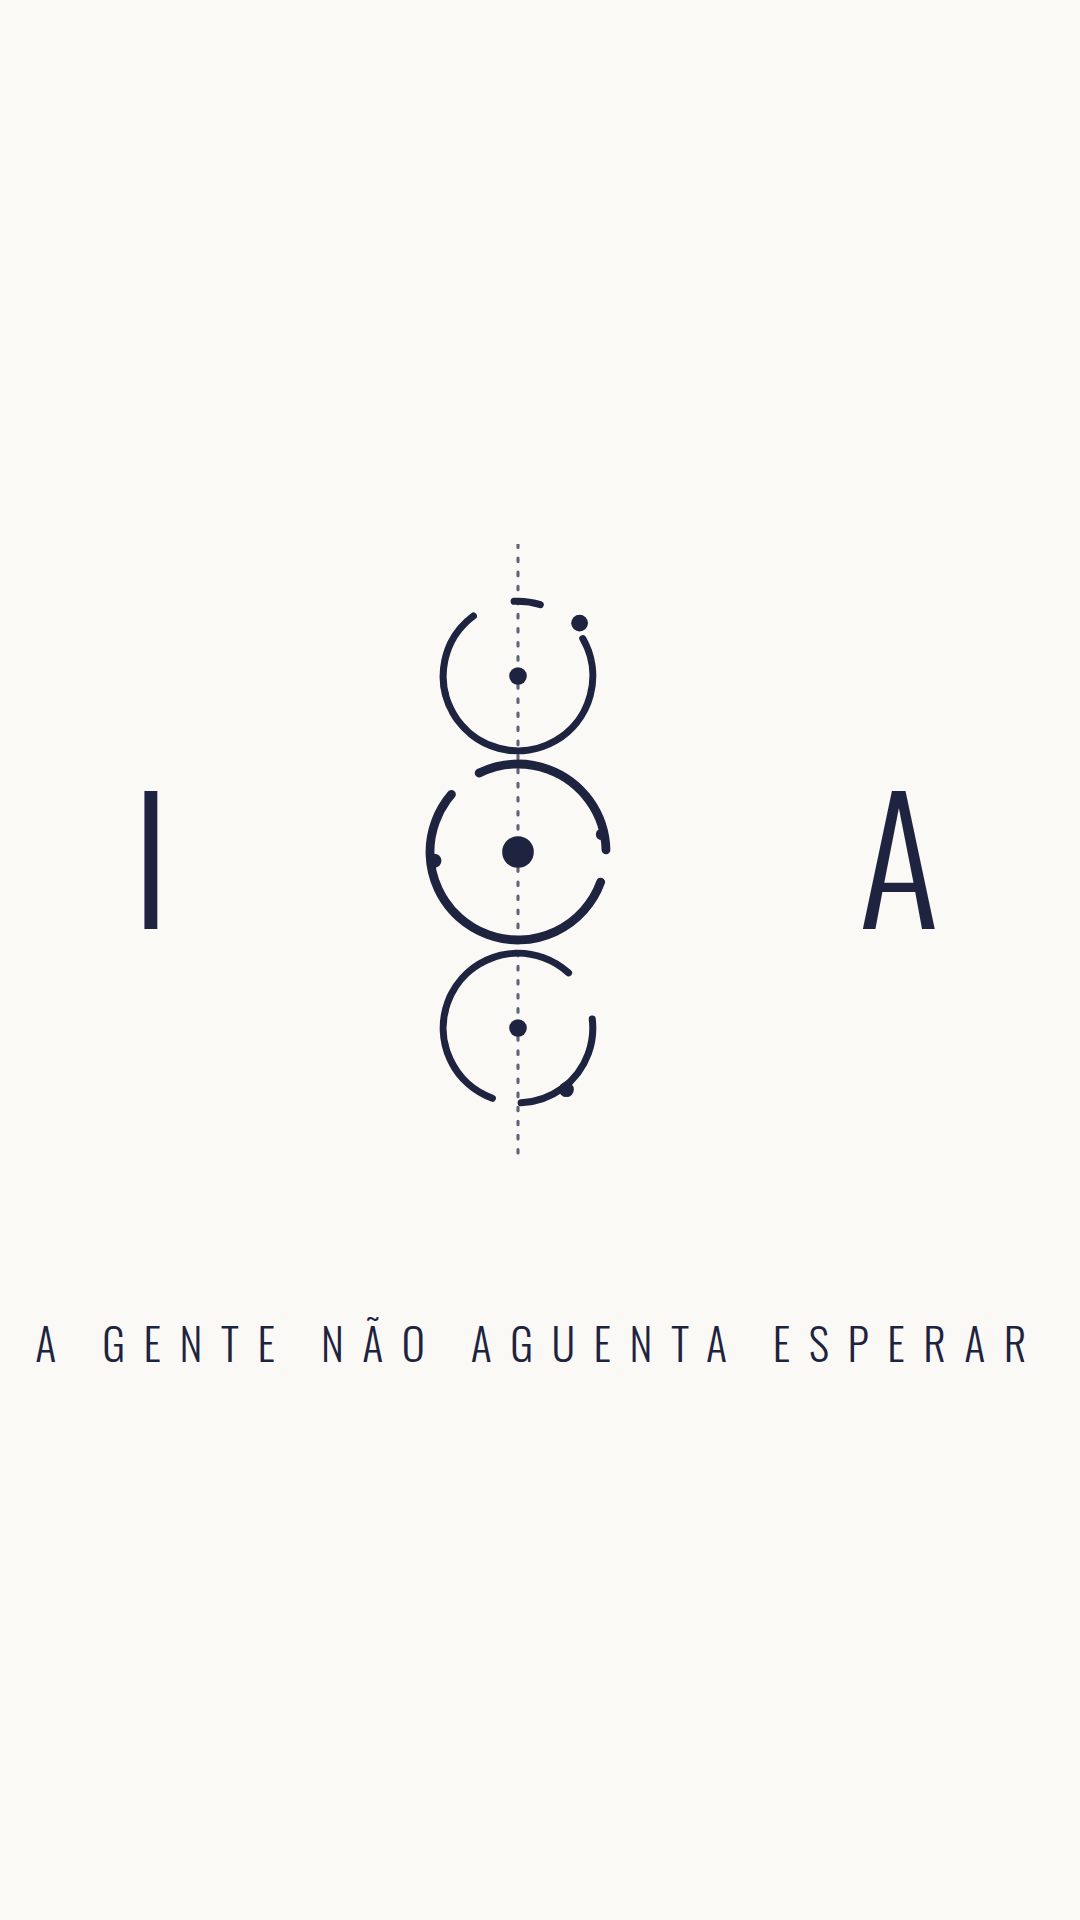
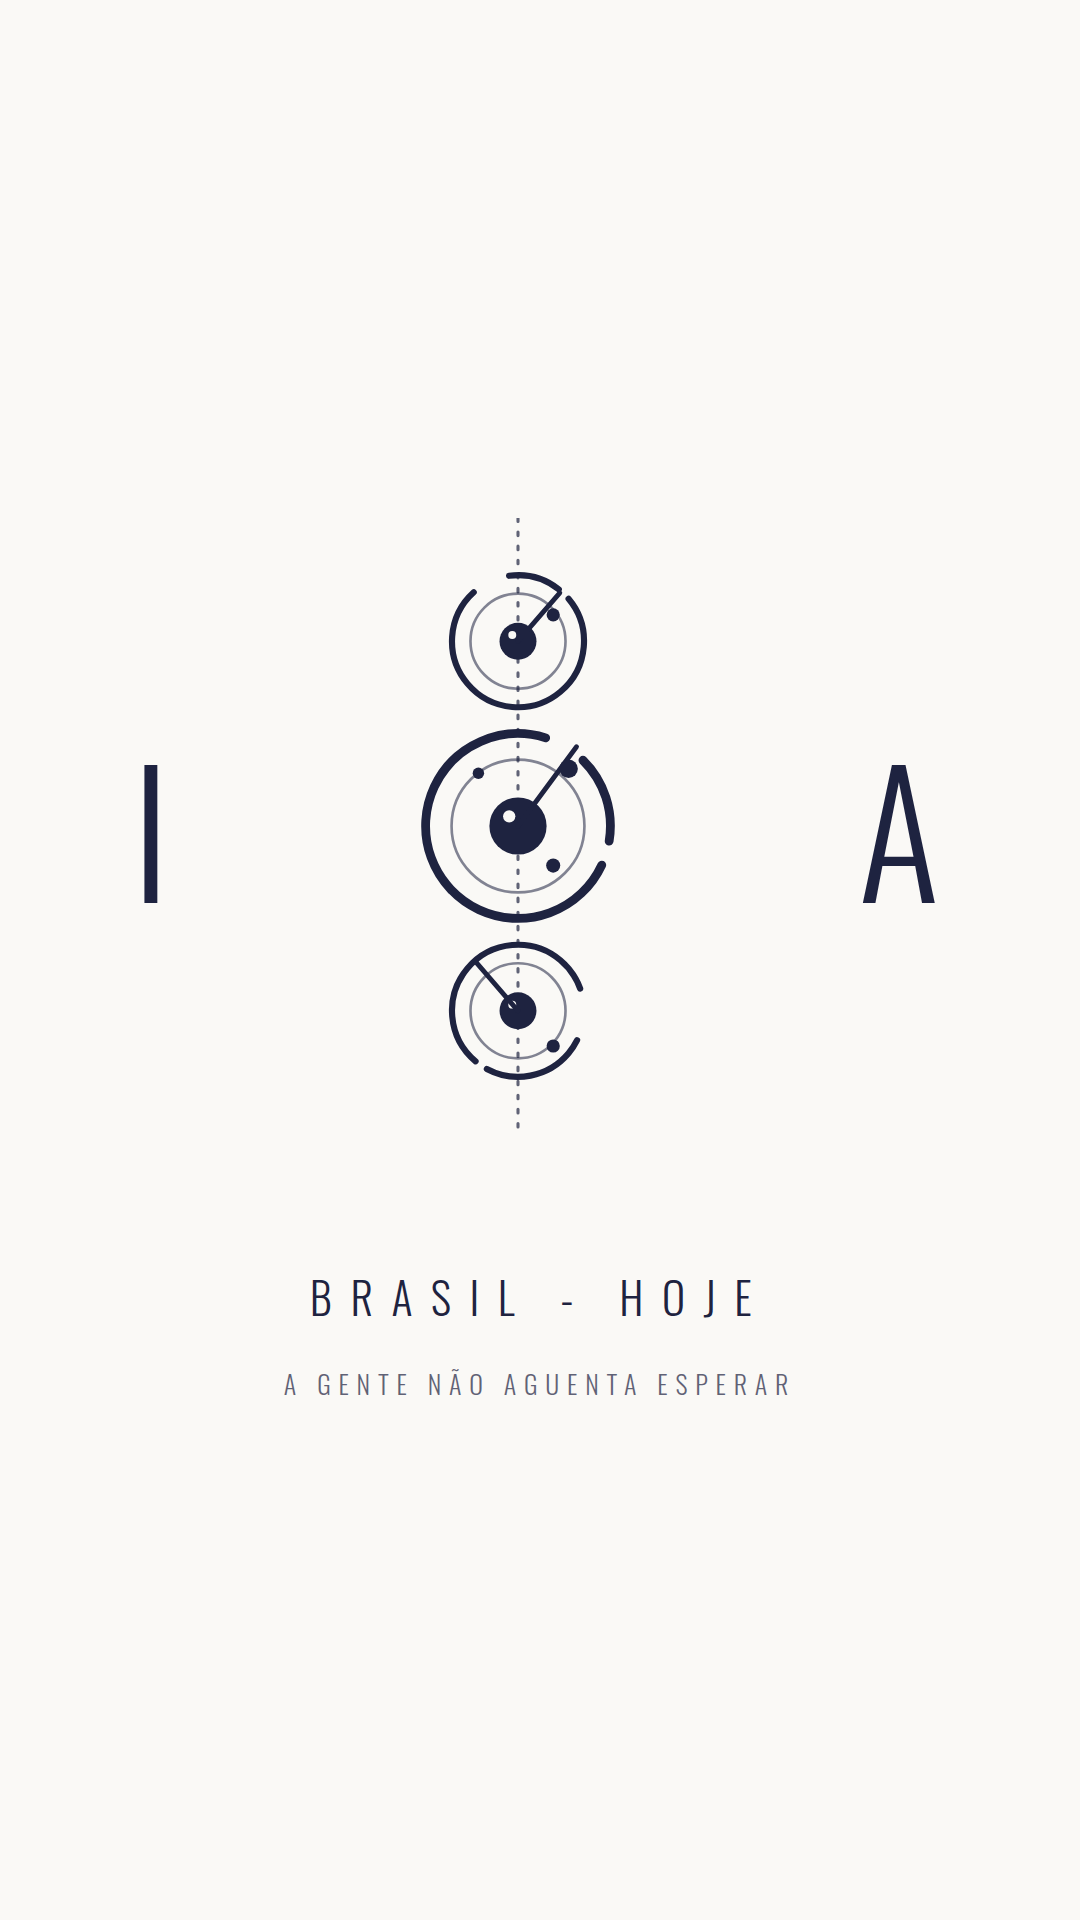
Mistério: três radares empilhados e "Brasil - hoje"
Claude-Session: https://claude.ai/code/session_015WqfV53Y8EeDbiaJmrZRa2

diff --git a/docs/post-misterio.html b/docs/post-misterio.html
@@ -426,21 +426,10 @@ body{display:flex;flex-direction:column;align-items:center;gap:40px;padding:40px
 <section class="sl" id="c3" style="justify-content:center;gap:0;background:#FAF9F6;color:#1E2340">
   <div style="display:flex;align-items:center;justify-content:center;gap:120px;width:100%">
     <span style="font-family:var(--display);font-weight:300;font-size:170px;line-height:1;letter-spacing:.05em">I</span>
-    <svg viewBox="0 0 100 140" width="440" height="616" fill="none" stroke="#1E2340" stroke-width="1.6" stroke-linecap="round" stroke-linejoin="round">
-      <line x1="50" y1="0" x2="50" y2="140" stroke-dasharray="0.8 2.4" stroke-width=".7" opacity=".7"/>
-      <circle cx="50" cy="30" r="17" stroke-dasharray="78 10 6 13" transform="rotate(-30 50 30)"/>
-      <circle cx="50" cy="70" r="20" stroke-dasharray="70 8 40 8" transform="rotate(20 50 70)" stroke-width="2"/>
-      <circle cx="50" cy="110" r="17" stroke-dasharray="60 12 28 7" transform="rotate(110 50 110)"/>
-      <circle cx="50" cy="30" r="2" fill="#1E2340" stroke="none"/>
-      <circle cx="50" cy="70" r="3.6" fill="#1E2340" stroke="none"/>
-      <circle cx="50" cy="110" r="2" fill="#1E2340" stroke="none"/>
-      <circle cx="64" cy="18" r="1.9" fill="#1E2340" stroke="none"/>
-      <circle cx="31" cy="72" r="1.6" fill="#1E2340" stroke="none"/>
-      <circle cx="69" cy="66" r="1.3" fill="#1E2340" stroke="none"/>
-      <circle cx="61" cy="124" r="1.7" fill="#1E2340" stroke="none"/>
-    </svg>
+    <svg viewBox="0 0 100 140" width="440" height="616" fill="none" stroke="#1E2340" stroke-width="1.5" stroke-linecap="round"><line x1="50" y1="0" x2="50" y2="140" stroke-dasharray="0.8 2.4" stroke-width=".7" opacity=".7"/><g transform="rotate(-40 50 28)"><circle cx="50" cy="28" r="15" stroke-dasharray="70 9 12 4" stroke-width="1.4"/></g><circle cx="50" cy="28" r="10.8" stroke-width=".6" opacity=".55"/><circle cx="50" cy="28" r="4.2" fill="#1E2340" stroke="none"/><circle cx="48.7" cy="26.6" r="0.9" fill="#FAF9F6" stroke="none"/><line x1="50" y1="28" x2="59.5" y2="17" stroke-width="1.1"/><circle cx="58" cy="22" r="1.5" fill="#1E2340" stroke="none"/><g transform="rotate(25 50 70)"><circle cx="50" cy="70" r="21" stroke-dasharray="96 10 20 6" stroke-width="2"/></g><circle cx="50" cy="70" r="15.1" stroke-width=".6" opacity=".55"/><circle cx="50" cy="70" r="6.5" fill="#1E2340" stroke="none"/><circle cx="48.0" cy="67.8" r="1.4" fill="#FAF9F6" stroke="none"/><line x1="50" y1="70" x2="63.3" y2="52" stroke-width="1.1"/><circle cx="61.5" cy="57" r="2.1" fill="#1E2340" stroke="none"/><circle cx="58" cy="79" r="1.6" fill="#1E2340" stroke="none"/><circle cx="41" cy="58" r="1.3" fill="#1E2340" stroke="none"/><g transform="rotate(130 50 112)"><circle cx="50" cy="112" r="15" stroke-dasharray="55 12 24 4" stroke-width="1.4"/></g><circle cx="50" cy="112" r="10.8" stroke-width=".6" opacity=".55"/><circle cx="50" cy="112" r="4.2" fill="#1E2340" stroke="none"/><circle cx="48.7" cy="110.6" r="0.9" fill="#FAF9F6" stroke="none"/><line x1="50" y1="112" x2="40.5" y2="101" stroke-width="1.1"/><circle cx="58" cy="120" r="1.5" fill="#1E2340" stroke="none"/></svg>
     <span style="font-family:var(--display);font-weight:300;font-size:170px;line-height:1;letter-spacing:.05em">A</span>
   </div>
-  <div style="margin-top:150px;font-family:var(--display);font-weight:300;font-size:44px;letter-spacing:.42em;text-transform:uppercase">A gente não aguenta esperar</div>
+  <div style="margin-top:130px;font-family:var(--display);font-weight:300;font-size:44px;letter-spacing:.42em;text-transform:uppercase">Brasil - hoje</div>
+  <div style="margin-top:34px;font-family:var(--display);font-weight:300;font-size:26px;letter-spacing:.3em;text-transform:uppercase;opacity:.7">A gente não aguenta esperar</div>
 </section>
 </body></html>

diff --git a/docs/story-misterio.html b/docs/story-misterio.html
@@ -426,21 +426,10 @@ body{display:flex;flex-direction:column;align-items:center;gap:40px;padding:40px
 <section class="sl" id="c3" style="justify-content:center;gap:0;background:#FAF9F6;color:#1E2340">
   <div style="display:flex;align-items:center;justify-content:center;gap:120px;width:100%">
     <span style="font-family:var(--display);font-weight:300;font-size:170px;line-height:1;letter-spacing:.05em">I</span>
-    <svg viewBox="0 0 100 140" width="440" height="616" fill="none" stroke="#1E2340" stroke-width="1.6" stroke-linecap="round" stroke-linejoin="round">
-      <line x1="50" y1="0" x2="50" y2="140" stroke-dasharray="0.8 2.4" stroke-width=".7" opacity=".7"/>
-      <circle cx="50" cy="30" r="17" stroke-dasharray="78 10 6 13" transform="rotate(-30 50 30)"/>
-      <circle cx="50" cy="70" r="20" stroke-dasharray="70 8 40 8" transform="rotate(20 50 70)" stroke-width="2"/>
-      <circle cx="50" cy="110" r="17" stroke-dasharray="60 12 28 7" transform="rotate(110 50 110)"/>
-      <circle cx="50" cy="30" r="2" fill="#1E2340" stroke="none"/>
-      <circle cx="50" cy="70" r="3.6" fill="#1E2340" stroke="none"/>
-      <circle cx="50" cy="110" r="2" fill="#1E2340" stroke="none"/>
-      <circle cx="64" cy="18" r="1.9" fill="#1E2340" stroke="none"/>
-      <circle cx="31" cy="72" r="1.6" fill="#1E2340" stroke="none"/>
-      <circle cx="69" cy="66" r="1.3" fill="#1E2340" stroke="none"/>
-      <circle cx="61" cy="124" r="1.7" fill="#1E2340" stroke="none"/>
-    </svg>
+    <svg viewBox="0 0 100 140" width="440" height="616" fill="none" stroke="#1E2340" stroke-width="1.5" stroke-linecap="round"><line x1="50" y1="0" x2="50" y2="140" stroke-dasharray="0.8 2.4" stroke-width=".7" opacity=".7"/><g transform="rotate(-40 50 28)"><circle cx="50" cy="28" r="15" stroke-dasharray="70 9 12 4" stroke-width="1.4"/></g><circle cx="50" cy="28" r="10.8" stroke-width=".6" opacity=".55"/><circle cx="50" cy="28" r="4.2" fill="#1E2340" stroke="none"/><circle cx="48.7" cy="26.6" r="0.9" fill="#FAF9F6" stroke="none"/><line x1="50" y1="28" x2="59.5" y2="17" stroke-width="1.1"/><circle cx="58" cy="22" r="1.5" fill="#1E2340" stroke="none"/><g transform="rotate(25 50 70)"><circle cx="50" cy="70" r="21" stroke-dasharray="96 10 20 6" stroke-width="2"/></g><circle cx="50" cy="70" r="15.1" stroke-width=".6" opacity=".55"/><circle cx="50" cy="70" r="6.5" fill="#1E2340" stroke="none"/><circle cx="48.0" cy="67.8" r="1.4" fill="#FAF9F6" stroke="none"/><line x1="50" y1="70" x2="63.3" y2="52" stroke-width="1.1"/><circle cx="61.5" cy="57" r="2.1" fill="#1E2340" stroke="none"/><circle cx="58" cy="79" r="1.6" fill="#1E2340" stroke="none"/><circle cx="41" cy="58" r="1.3" fill="#1E2340" stroke="none"/><g transform="rotate(130 50 112)"><circle cx="50" cy="112" r="15" stroke-dasharray="55 12 24 4" stroke-width="1.4"/></g><circle cx="50" cy="112" r="10.8" stroke-width=".6" opacity=".55"/><circle cx="50" cy="112" r="4.2" fill="#1E2340" stroke="none"/><circle cx="48.7" cy="110.6" r="0.9" fill="#FAF9F6" stroke="none"/><line x1="50" y1="112" x2="40.5" y2="101" stroke-width="1.1"/><circle cx="58" cy="120" r="1.5" fill="#1E2340" stroke="none"/></svg>
     <span style="font-family:var(--display);font-weight:300;font-size:170px;line-height:1;letter-spacing:.05em">A</span>
   </div>
-  <div style="margin-top:150px;font-family:var(--display);font-weight:300;font-size:44px;letter-spacing:.42em;text-transform:uppercase">A gente não aguenta esperar</div>
+  <div style="margin-top:130px;font-family:var(--display);font-weight:300;font-size:44px;letter-spacing:.42em;text-transform:uppercase">Brasil - hoje</div>
+  <div style="margin-top:34px;font-family:var(--display);font-weight:300;font-size:26px;letter-spacing:.3em;text-transform:uppercase;opacity:.7">A gente não aguenta esperar</div>
 </section>
 </body></html>
